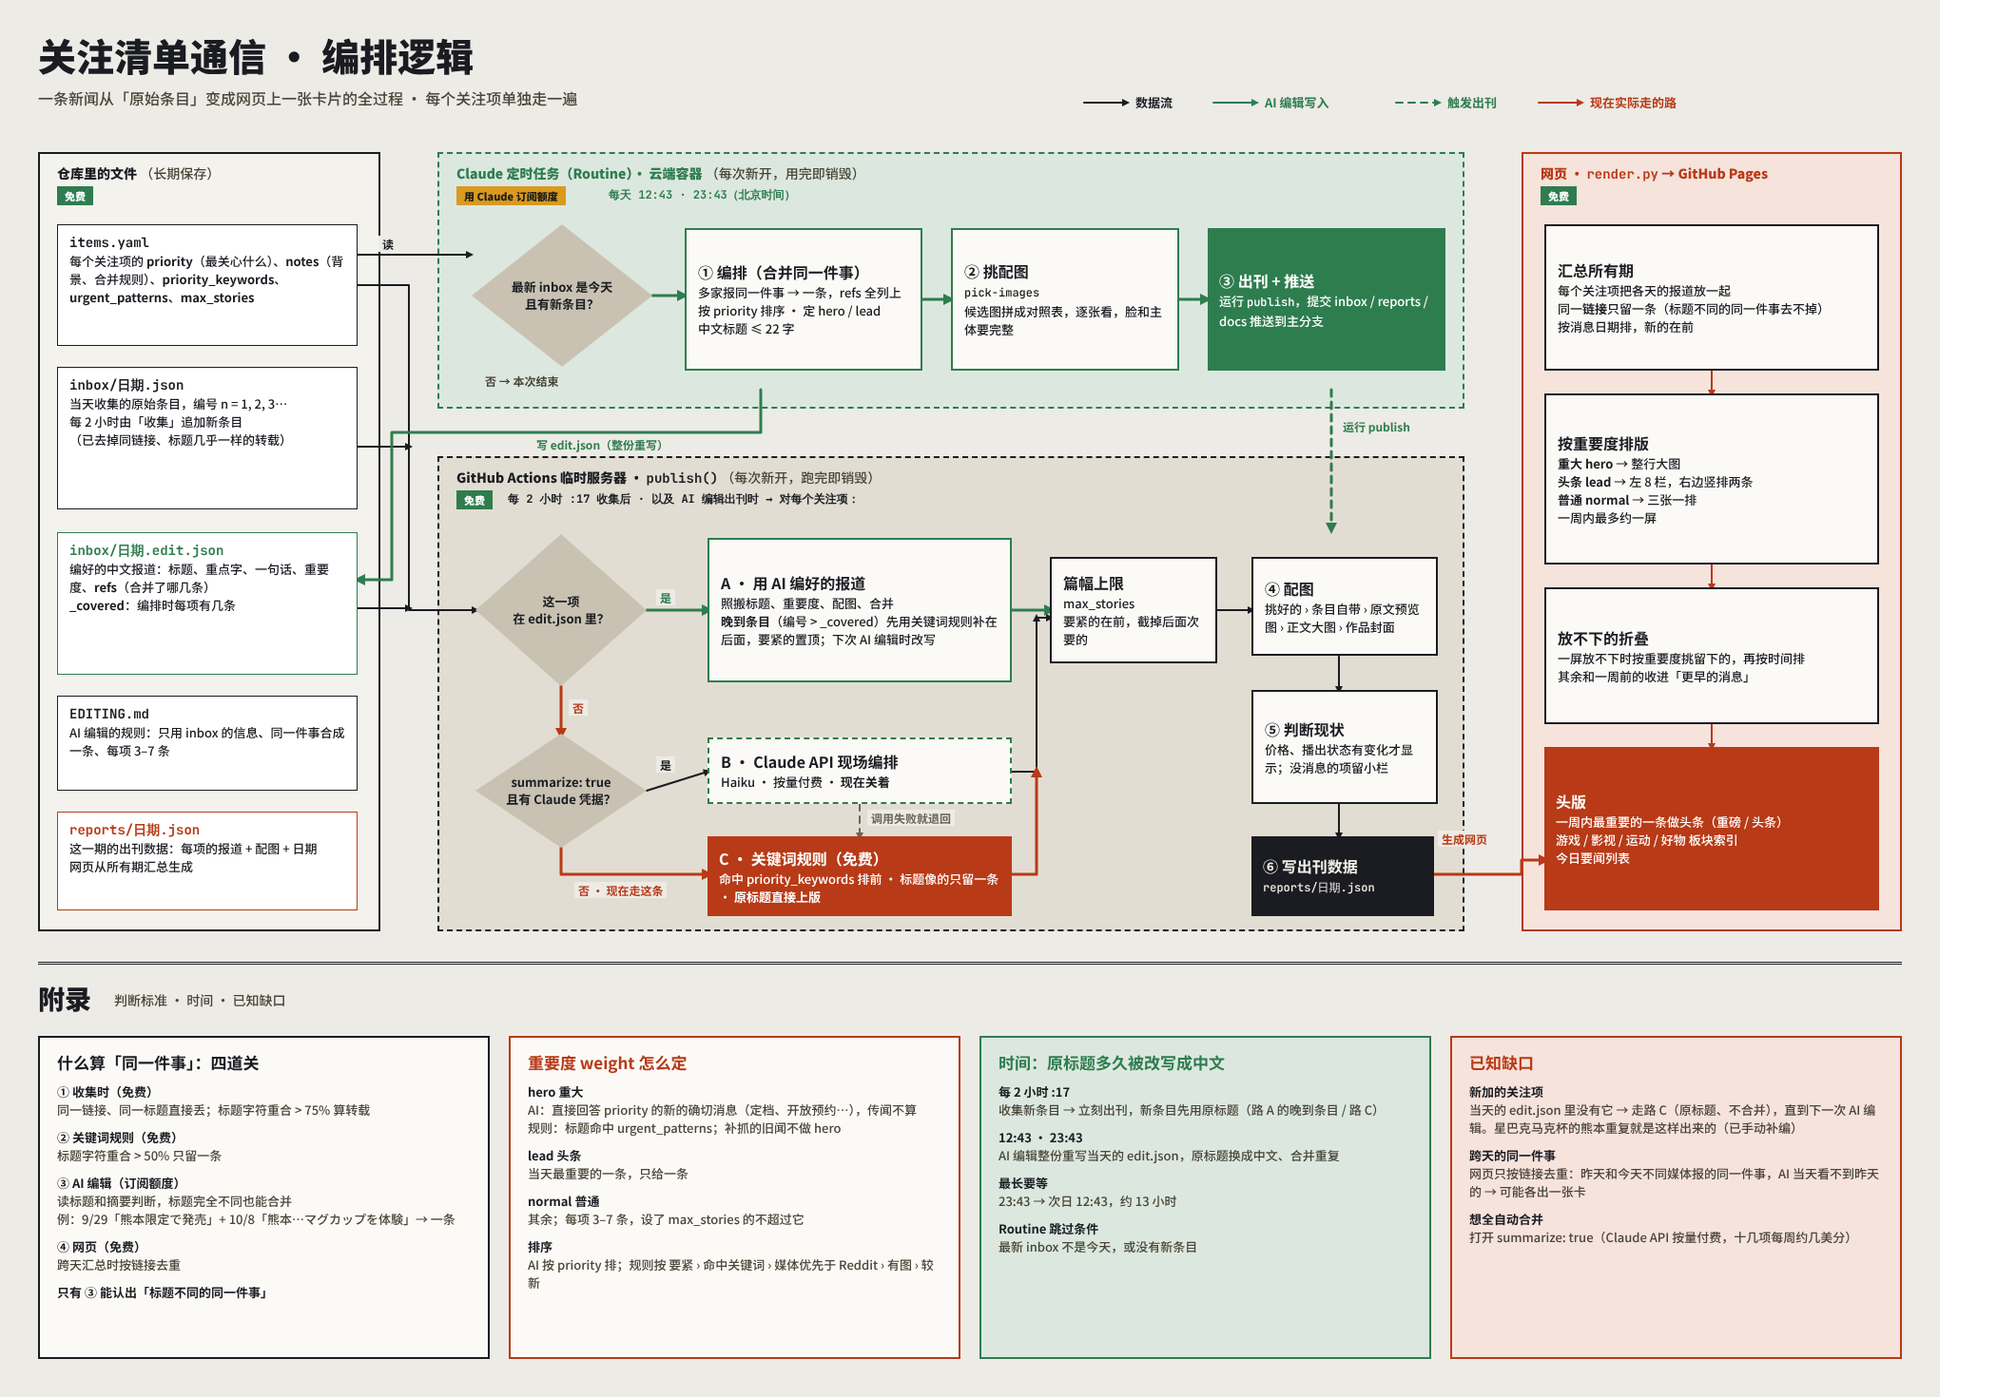
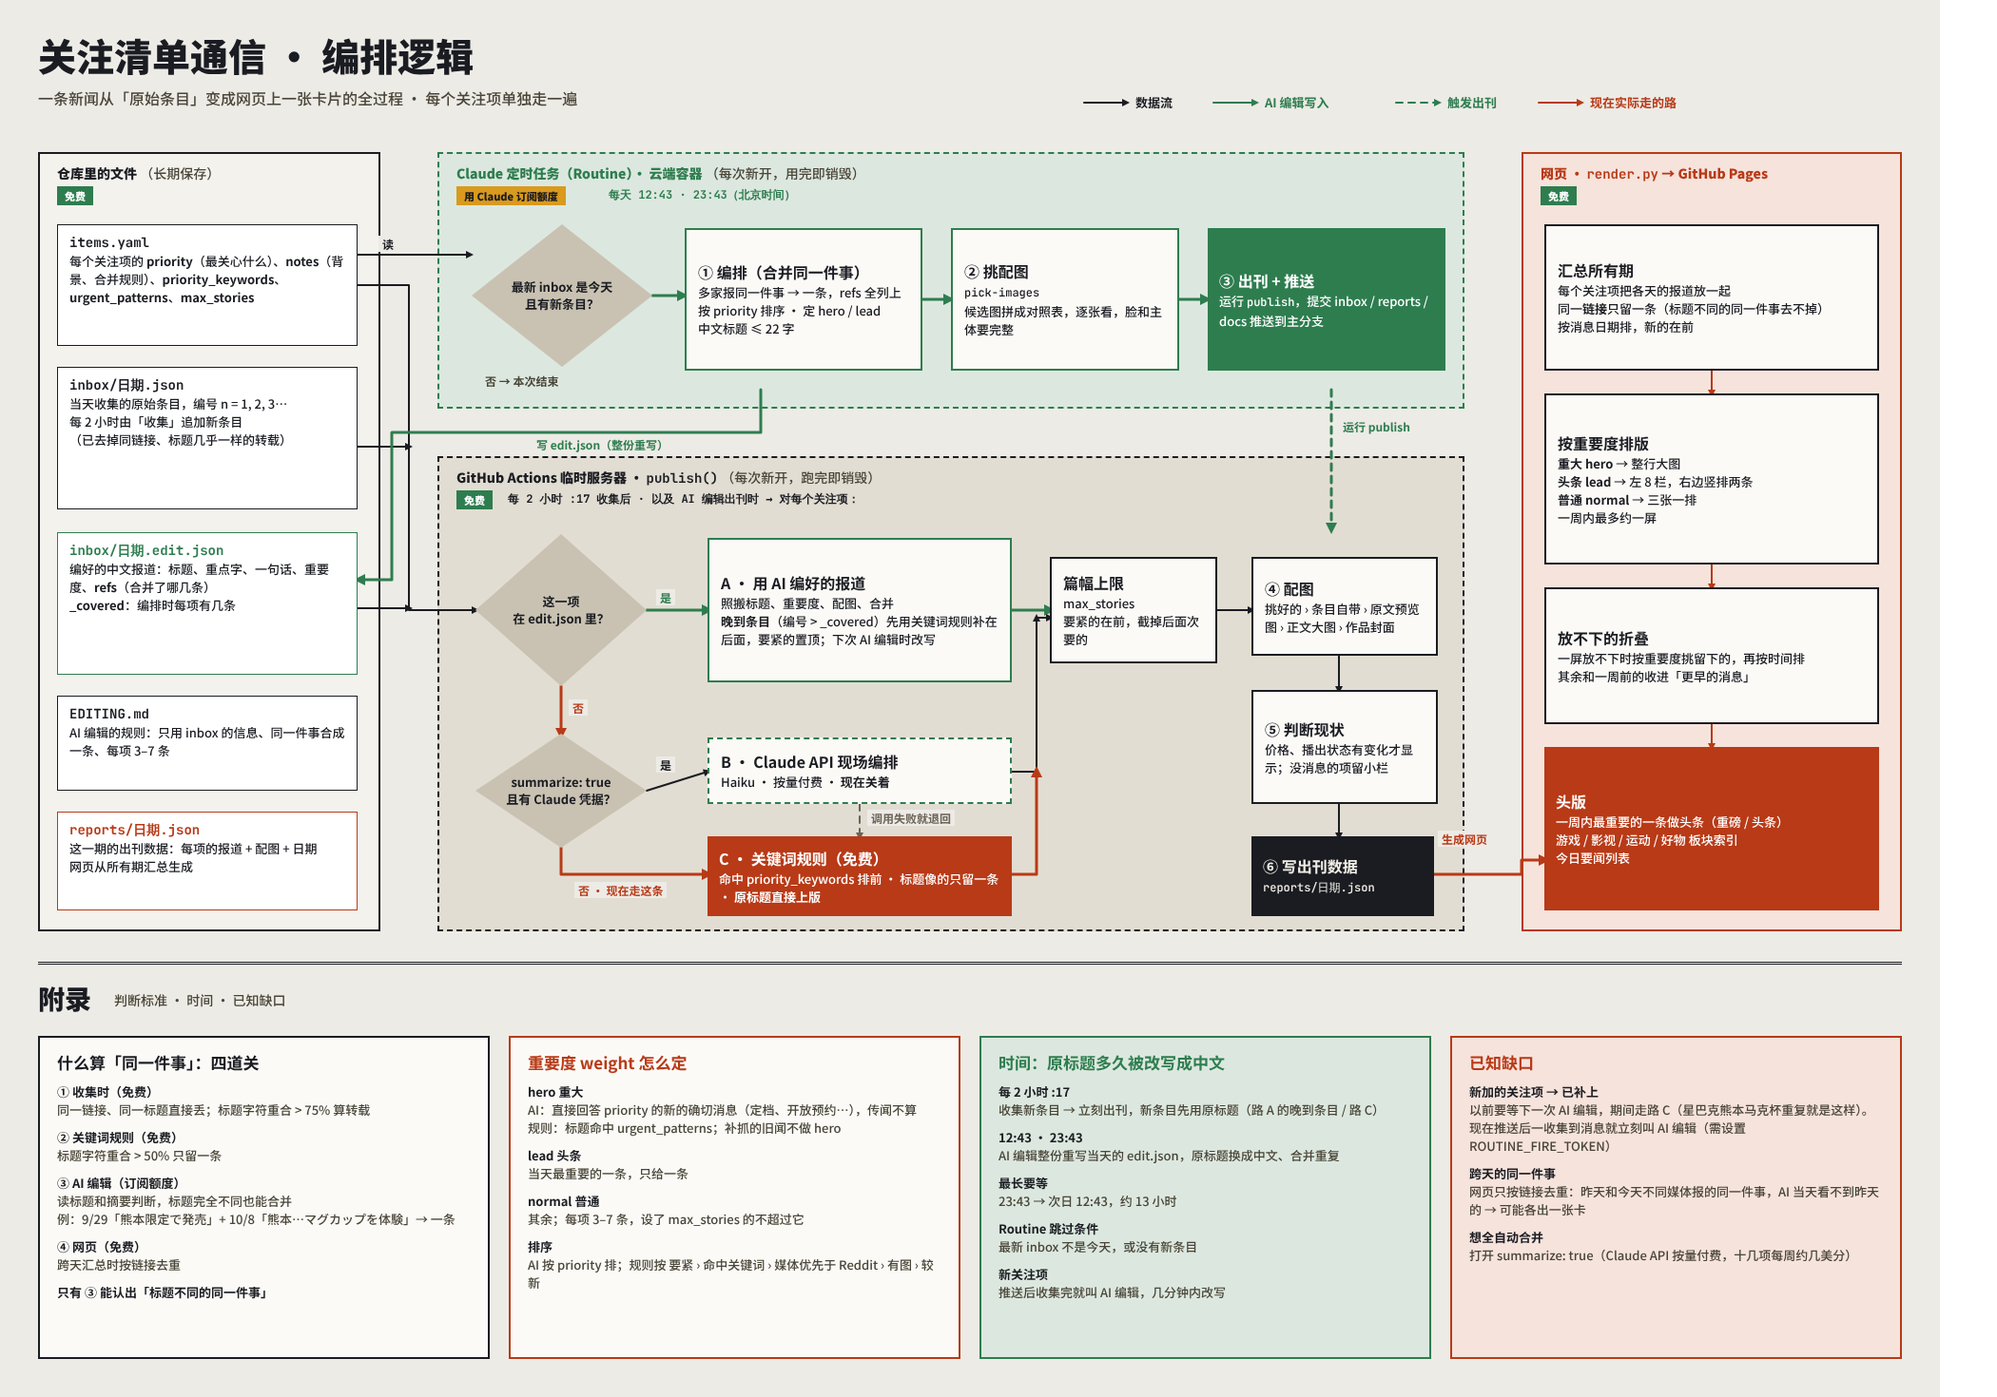
新加关注项后立刻叫 AI 编辑：推送收集完，新项有消息但当天还没编排就触发 Claude 定时任务（需 Secret ROUTINE_FIRE_TOKEN）
Claude-Session: https://claude.ai/code/session_01BPzZFgmAwcZ8L1JNdnXBCJ

Changed region(s): [[0.7119, 0.7653, 0.9595, 0.9184], [0.4952, 0.8878, 0.619, 0.949]]

diff --git a/design/Editing.dc.html b/design/Editing.dc.html
@@ -73,8 +73,8 @@ body{margin:0}
 <div style="position: absolute; left: 120px; top: 1042px; font-size: 14px; font-weight: 500; line-height: 20px; color: #4A4538;">判断标准 · 时间 · 已知缺口</div>
 <div style="position: absolute; left: 40px; top: 1090px; width: 475px; height: 340px; box-sizing: border-box; padding: 16px 18px; background: #FBFAF7; border: 2px solid #1A1C22; font-size: 13px; line-height: 19px"><b style="font-size: 17px; color: #1A1C22">什么算「同一件事」：四道关</b><div style="margin-top: 10px"><b>① 收集时（免费）</b><br><span style="color: #4A4538">同一链接、同一标题直接丢；标题字符重合 &gt; 75% 算转载</span></div><div style="margin-top: 10px"><b>② 关键词规则（免费）</b><br><span style="color: #4A4538">标题字符重合 &gt; 50% 只留一条</span></div><div style="margin-top: 10px"><b>③ AI 编辑（订阅额度）</b><br><span style="color: #4A4538">读标题和摘要判断，标题完全不同也能合并<br>例：9/29「熊本限定で発売」+ 10/8「熊本…マグカップを体験」→ 一条</span></div><div style="margin-top: 10px"><b>④ 网页（免费）</b><br><span style="color: #4A4538">跨天汇总时按链接去重</span></div><div style="margin-top: 10px"><b>只有 ③ 能认出「标题不同的同一件事」</b><br><span style="color: #4A4538"></span></div></div>
 <div style="position: absolute; left: 535px; top: 1090px; width: 475px; height: 340px; box-sizing: border-box; padding: 16px 18px; background: #FBFAF7; border: 2px solid #B83A17; font-size: 13px; line-height: 19px"><b style="font-size: 17px; color: #B83A17">重要度 weight 怎么定</b><div style="margin-top: 10px"><b>hero 重大</b><br><span style="color: #4A4538">AI：直接回答 priority 的新的确切消息（定档、开放预约…），传闻不算<br>规则：标题命中 urgent_patterns；补抓的旧闻不做 hero</span></div><div style="margin-top: 10px"><b>lead 头条</b><br><span style="color: #4A4538">当天最重要的一条，只给一条</span></div><div style="margin-top: 10px"><b>normal 普通</b><br><span style="color: #4A4538">其余；每项 3–7 条，设了 max_stories 的不超过它</span></div><div style="margin-top: 10px"><b>排序</b><br><span style="color: #4A4538">AI 按 priority 排；规则按 要紧 › 命中关键词 › 媒体优先于 Reddit › 有图 › 较新</span></div></div>
-<div style="position: absolute; left: 1030px; top: 1090px; width: 475px; height: 340px; box-sizing: border-box; padding: 16px 18px; background: #DCE8DF; border: 2px solid #2E7D4F; font-size: 13px; line-height: 19px"><b style="font-size: 17px; color: #2E7D4F">时间：原标题多久被改写成中文</b><div style="margin-top: 10px"><b>每 2 小时 :17</b><br><span style="color: #4A4538">收集新条目 → 立刻出刊，新条目先用原标题（路 A 的晚到条目 / 路 C）</span></div><div style="margin-top: 10px"><b>12:43 · 23:43</b><br><span style="color: #4A4538">AI 编辑整份重写当天的 edit.json，原标题换成中文、合并重复</span></div><div style="margin-top: 10px"><b>最长要等</b><br><span style="color: #4A4538">23:43 → 次日 12:43，约 13 小时</span></div><div style="margin-top: 10px"><b>Routine 跳过条件</b><br><span style="color: #4A4538">最新 inbox 不是今天，或没有新条目</span></div></div>
-<div style="position: absolute; left: 1525px; top: 1090px; width: 475px; height: 340px; box-sizing: border-box; padding: 16px 18px; background: #F6E3DC; border: 2px solid #B83A17; font-size: 13px; line-height: 19px"><b style="font-size: 17px; color: #B83A17">已知缺口</b><div style="margin-top: 10px"><b>新加的关注项</b><br><span style="color: #4A4538">当天的 edit.json 里没有它 → 走路 C（原标题、不合并），直到下一次 AI 编辑。星巴克马克杯的熊本重复就是这样出来的（已手动补编）</span></div><div style="margin-top: 10px"><b>跨天的同一件事</b><br><span style="color: #4A4538">网页只按链接去重：昨天和今天不同媒体报的同一件事，AI 当天看不到昨天的 → 可能各出一张卡</span></div><div style="margin-top: 10px"><b>想全自动合并</b><br><span style="color: #4A4538">打开 summarize: true（Claude API 按量付费，十几项每周约几美分）</span></div></div>
+<div style="position: absolute; left: 1030px; top: 1090px; width: 475px; height: 340px; box-sizing: border-box; padding: 16px 18px; background: #DCE8DF; border: 2px solid #2E7D4F; font-size: 13px; line-height: 19px"><b style="font-size: 17px; color: #2E7D4F">时间：原标题多久被改写成中文</b><div style="margin-top: 10px"><b>每 2 小时 :17</b><br><span style="color: #4A4538">收集新条目 → 立刻出刊，新条目先用原标题（路 A 的晚到条目 / 路 C）</span></div><div style="margin-top: 10px"><b>12:43 · 23:43</b><br><span style="color: #4A4538">AI 编辑整份重写当天的 edit.json，原标题换成中文、合并重复</span></div><div style="margin-top: 10px"><b>最长要等</b><br><span style="color: #4A4538">23:43 → 次日 12:43，约 13 小时</span></div><div style="margin-top: 10px"><b>Routine 跳过条件</b><br><span style="color: #4A4538">最新 inbox 不是今天，或没有新条目</span></div><div style="margin-top: 10px"><b>新关注项</b><br><span style="color: #4A4538">推送后收集完就叫 AI 编辑，几分钟内改写</span></div></div>
+<div style="position: absolute; left: 1525px; top: 1090px; width: 475px; height: 340px; box-sizing: border-box; padding: 16px 18px; background: #F6E3DC; border: 2px solid #B83A17; font-size: 13px; line-height: 19px"><b style="font-size: 17px; color: #B83A17">已知缺口</b><div style="margin-top: 10px"><b>新加的关注项 → 已补上</b><br><span style="color: #4A4538">以前要等下一次 AI 编辑，期间走路 C（星巴克熊本马克杯重复就是这样）。现在推送后一收集到消息就立刻叫 AI 编辑（需设置 ROUTINE_FIRE_TOKEN）</span></div><div style="margin-top: 10px"><b>跨天的同一件事</b><br><span style="color: #4A4538">网页只按链接去重：昨天和今天不同媒体报的同一件事，AI 当天看不到昨天的 → 可能各出一张卡</span></div><div style="margin-top: 10px"><b>想全自动合并</b><br><span style="color: #4A4538">打开 summarize: true（Claude API 按量付费，十几项每周约几美分）</span></div></div>
 </div>
 </x-dc>
 </body>

diff --git a/docs/design/editing.html b/docs/design/editing.html
@@ -73,8 +73,8 @@ body{margin:0}
 <div style="position: absolute; left: 120px; top: 1042px; font-size: 14px; font-weight: 500; line-height: 20px; color: #4A4538;">判断标准 · 时间 · 已知缺口</div>
 <div style="position: absolute; left: 40px; top: 1090px; width: 475px; height: 340px; box-sizing: border-box; padding: 16px 18px; background: #FBFAF7; border: 2px solid #1A1C22; font-size: 13px; line-height: 19px"><b style="font-size: 17px; color: #1A1C22">什么算「同一件事」：四道关</b><div style="margin-top: 10px"><b>① 收集时（免费）</b><br><span style="color: #4A4538">同一链接、同一标题直接丢；标题字符重合 &gt; 75% 算转载</span></div><div style="margin-top: 10px"><b>② 关键词规则（免费）</b><br><span style="color: #4A4538">标题字符重合 &gt; 50% 只留一条</span></div><div style="margin-top: 10px"><b>③ AI 编辑（订阅额度）</b><br><span style="color: #4A4538">读标题和摘要判断，标题完全不同也能合并<br>例：9/29「熊本限定で発売」+ 10/8「熊本…マグカップを体験」→ 一条</span></div><div style="margin-top: 10px"><b>④ 网页（免费）</b><br><span style="color: #4A4538">跨天汇总时按链接去重</span></div><div style="margin-top: 10px"><b>只有 ③ 能认出「标题不同的同一件事」</b><br><span style="color: #4A4538"></span></div></div>
 <div style="position: absolute; left: 535px; top: 1090px; width: 475px; height: 340px; box-sizing: border-box; padding: 16px 18px; background: #FBFAF7; border: 2px solid #B83A17; font-size: 13px; line-height: 19px"><b style="font-size: 17px; color: #B83A17">重要度 weight 怎么定</b><div style="margin-top: 10px"><b>hero 重大</b><br><span style="color: #4A4538">AI：直接回答 priority 的新的确切消息（定档、开放预约…），传闻不算<br>规则：标题命中 urgent_patterns；补抓的旧闻不做 hero</span></div><div style="margin-top: 10px"><b>lead 头条</b><br><span style="color: #4A4538">当天最重要的一条，只给一条</span></div><div style="margin-top: 10px"><b>normal 普通</b><br><span style="color: #4A4538">其余；每项 3–7 条，设了 max_stories 的不超过它</span></div><div style="margin-top: 10px"><b>排序</b><br><span style="color: #4A4538">AI 按 priority 排；规则按 要紧 › 命中关键词 › 媒体优先于 Reddit › 有图 › 较新</span></div></div>
-<div style="position: absolute; left: 1030px; top: 1090px; width: 475px; height: 340px; box-sizing: border-box; padding: 16px 18px; background: #DCE8DF; border: 2px solid #2E7D4F; font-size: 13px; line-height: 19px"><b style="font-size: 17px; color: #2E7D4F">时间：原标题多久被改写成中文</b><div style="margin-top: 10px"><b>每 2 小时 :17</b><br><span style="color: #4A4538">收集新条目 → 立刻出刊，新条目先用原标题（路 A 的晚到条目 / 路 C）</span></div><div style="margin-top: 10px"><b>12:43 · 23:43</b><br><span style="color: #4A4538">AI 编辑整份重写当天的 edit.json，原标题换成中文、合并重复</span></div><div style="margin-top: 10px"><b>最长要等</b><br><span style="color: #4A4538">23:43 → 次日 12:43，约 13 小时</span></div><div style="margin-top: 10px"><b>Routine 跳过条件</b><br><span style="color: #4A4538">最新 inbox 不是今天，或没有新条目</span></div></div>
-<div style="position: absolute; left: 1525px; top: 1090px; width: 475px; height: 340px; box-sizing: border-box; padding: 16px 18px; background: #F6E3DC; border: 2px solid #B83A17; font-size: 13px; line-height: 19px"><b style="font-size: 17px; color: #B83A17">已知缺口</b><div style="margin-top: 10px"><b>新加的关注项</b><br><span style="color: #4A4538">当天的 edit.json 里没有它 → 走路 C（原标题、不合并），直到下一次 AI 编辑。星巴克马克杯的熊本重复就是这样出来的（已手动补编）</span></div><div style="margin-top: 10px"><b>跨天的同一件事</b><br><span style="color: #4A4538">网页只按链接去重：昨天和今天不同媒体报的同一件事，AI 当天看不到昨天的 → 可能各出一张卡</span></div><div style="margin-top: 10px"><b>想全自动合并</b><br><span style="color: #4A4538">打开 summarize: true（Claude API 按量付费，十几项每周约几美分）</span></div></div>
+<div style="position: absolute; left: 1030px; top: 1090px; width: 475px; height: 340px; box-sizing: border-box; padding: 16px 18px; background: #DCE8DF; border: 2px solid #2E7D4F; font-size: 13px; line-height: 19px"><b style="font-size: 17px; color: #2E7D4F">时间：原标题多久被改写成中文</b><div style="margin-top: 10px"><b>每 2 小时 :17</b><br><span style="color: #4A4538">收集新条目 → 立刻出刊，新条目先用原标题（路 A 的晚到条目 / 路 C）</span></div><div style="margin-top: 10px"><b>12:43 · 23:43</b><br><span style="color: #4A4538">AI 编辑整份重写当天的 edit.json，原标题换成中文、合并重复</span></div><div style="margin-top: 10px"><b>最长要等</b><br><span style="color: #4A4538">23:43 → 次日 12:43，约 13 小时</span></div><div style="margin-top: 10px"><b>Routine 跳过条件</b><br><span style="color: #4A4538">最新 inbox 不是今天，或没有新条目</span></div><div style="margin-top: 10px"><b>新关注项</b><br><span style="color: #4A4538">推送后收集完就叫 AI 编辑，几分钟内改写</span></div></div>
+<div style="position: absolute; left: 1525px; top: 1090px; width: 475px; height: 340px; box-sizing: border-box; padding: 16px 18px; background: #F6E3DC; border: 2px solid #B83A17; font-size: 13px; line-height: 19px"><b style="font-size: 17px; color: #B83A17">已知缺口</b><div style="margin-top: 10px"><b>新加的关注项 → 已补上</b><br><span style="color: #4A4538">以前要等下一次 AI 编辑，期间走路 C（星巴克熊本马克杯重复就是这样）。现在推送后一收集到消息就立刻叫 AI 编辑（需设置 ROUTINE_FIRE_TOKEN）</span></div><div style="margin-top: 10px"><b>跨天的同一件事</b><br><span style="color: #4A4538">网页只按链接去重：昨天和今天不同媒体报的同一件事，AI 当天看不到昨天的 → 可能各出一张卡</span></div><div style="margin-top: 10px"><b>想全自动合并</b><br><span style="color: #4A4538">打开 summarize: true（Claude API 按量付费，十几项每周约几美分）</span></div></div>
 </div>
 
 </body>

diff --git a/scripts/digest.py b/scripts/digest.py
@@ -778,6 +778,26 @@ def publish(inbox_path=None):
     print(f"第 {no} 期：reports/{date}.json → docs/index.html", file=sys.stderr)
 
 
+def new_item_names():
+    """items.yaml 里有、但 state/known_items.json 还没记下的关注项，也就是刚加的。
+    要在 notify-new-items 之前调用（发完通知它会把新项记进去）。"""
+    known = load_json(STATE_DIR / "known_items.json") or []
+    return [i["name"] for i in load_config()[1] if i["name"] not in known]
+
+
+def unedited(only=None):
+    """今天的 inbox 里有条目、但当天的 edit.json 里还没有的关注项。only 给了就只看这些。
+    工作流在推送新关注项后用它判断要不要立刻叫 AI 编辑。今天还没有 inbox 就返回空。"""
+    settings, _ = load_config()
+    today = dt.datetime.now(zoneinfo.ZoneInfo(settings.get("timezone", "Asia/Shanghai"))).date().isoformat()
+    path = INBOX_DIR / f"{today}.json"
+    if not path.exists():
+        return []
+    edits = load_edits(path)
+    return [i["name"] for i in load_json(path)["items"]
+            if i["entries"] and i["name"] not in edits and (only is None or i["name"] in only)]
+
+
 PICK_DIR = pathlib.Path(os.environ.get("PICK_DIR", "/tmp/wishlist-pick"))
 
 
@@ -843,14 +863,19 @@ def pick_images(date=None):
 def main():
     parser = argparse.ArgumentParser()
     parser.add_argument("step", nargs="?", default="all",
-                        choices=["all", "ingest", "publish", "render", "notify-urgent", "notify-weekly", "notify-new-items", "notify-changes", "pick-images"])
+                        choices=["all", "ingest", "publish", "render", "notify-urgent", "notify-weekly", "notify-new-items", "notify-changes", "pick-images", "unedited", "new-items"])
     parser.add_argument("date", nargs="?", help="pick-images 用：指定日期，默认最新一期")
+    parser.add_argument("--only", help="unedited 用：只看这些关注项（用「、」分隔）")
     parser.add_argument("--dry-run", action="store_true", help="只抓取并打印，不写文件")
     args = parser.parse_args()
     if args.dry_run:
         ingest(dry_run=True)
     elif args.step == "pick-images":
         pick_images(args.date)
+    elif args.step == "new-items":
+        print("、".join(new_item_names()))
+    elif args.step == "unedited":
+        print("、".join(unedited(args.only.split("、") if args.only is not None else None)))
     elif args.step == "render":
         write_page()
     elif args.step == "ingest":

diff --git a/README.md b/README.md
@@ -27,6 +27,8 @@ GitHub Actions 的安排：
 |---|---|
 | 每 2 小时 | 收集 → 更新当天的简报网页 → 命中 `urgent_patterns` 的要紧消息立刻发 Discord（发过的不重发） |
 | 每周一 08:47（北京时间） | 发 Discord 周报：过去 7 天每个关注项的要点 + 网页链接 |
+| 每天 12:43 · 23:43（北京时间） | Claude 定时任务（AI 编辑）把当天的条目编成中文报道、合并同一件事 |
+| 新加关注项推送后 | 收集到消息就立刻叫 AI 编辑编一次，不等定时（需要仓库 Secret `ROUTINE_FIRE_TOKEN`：claude.ai/code/routines → 「关注清单通信 · AI 编辑」→ 编辑 → 添加触发器 → API → 生成令牌） |
 
 ```
 items.yaml
